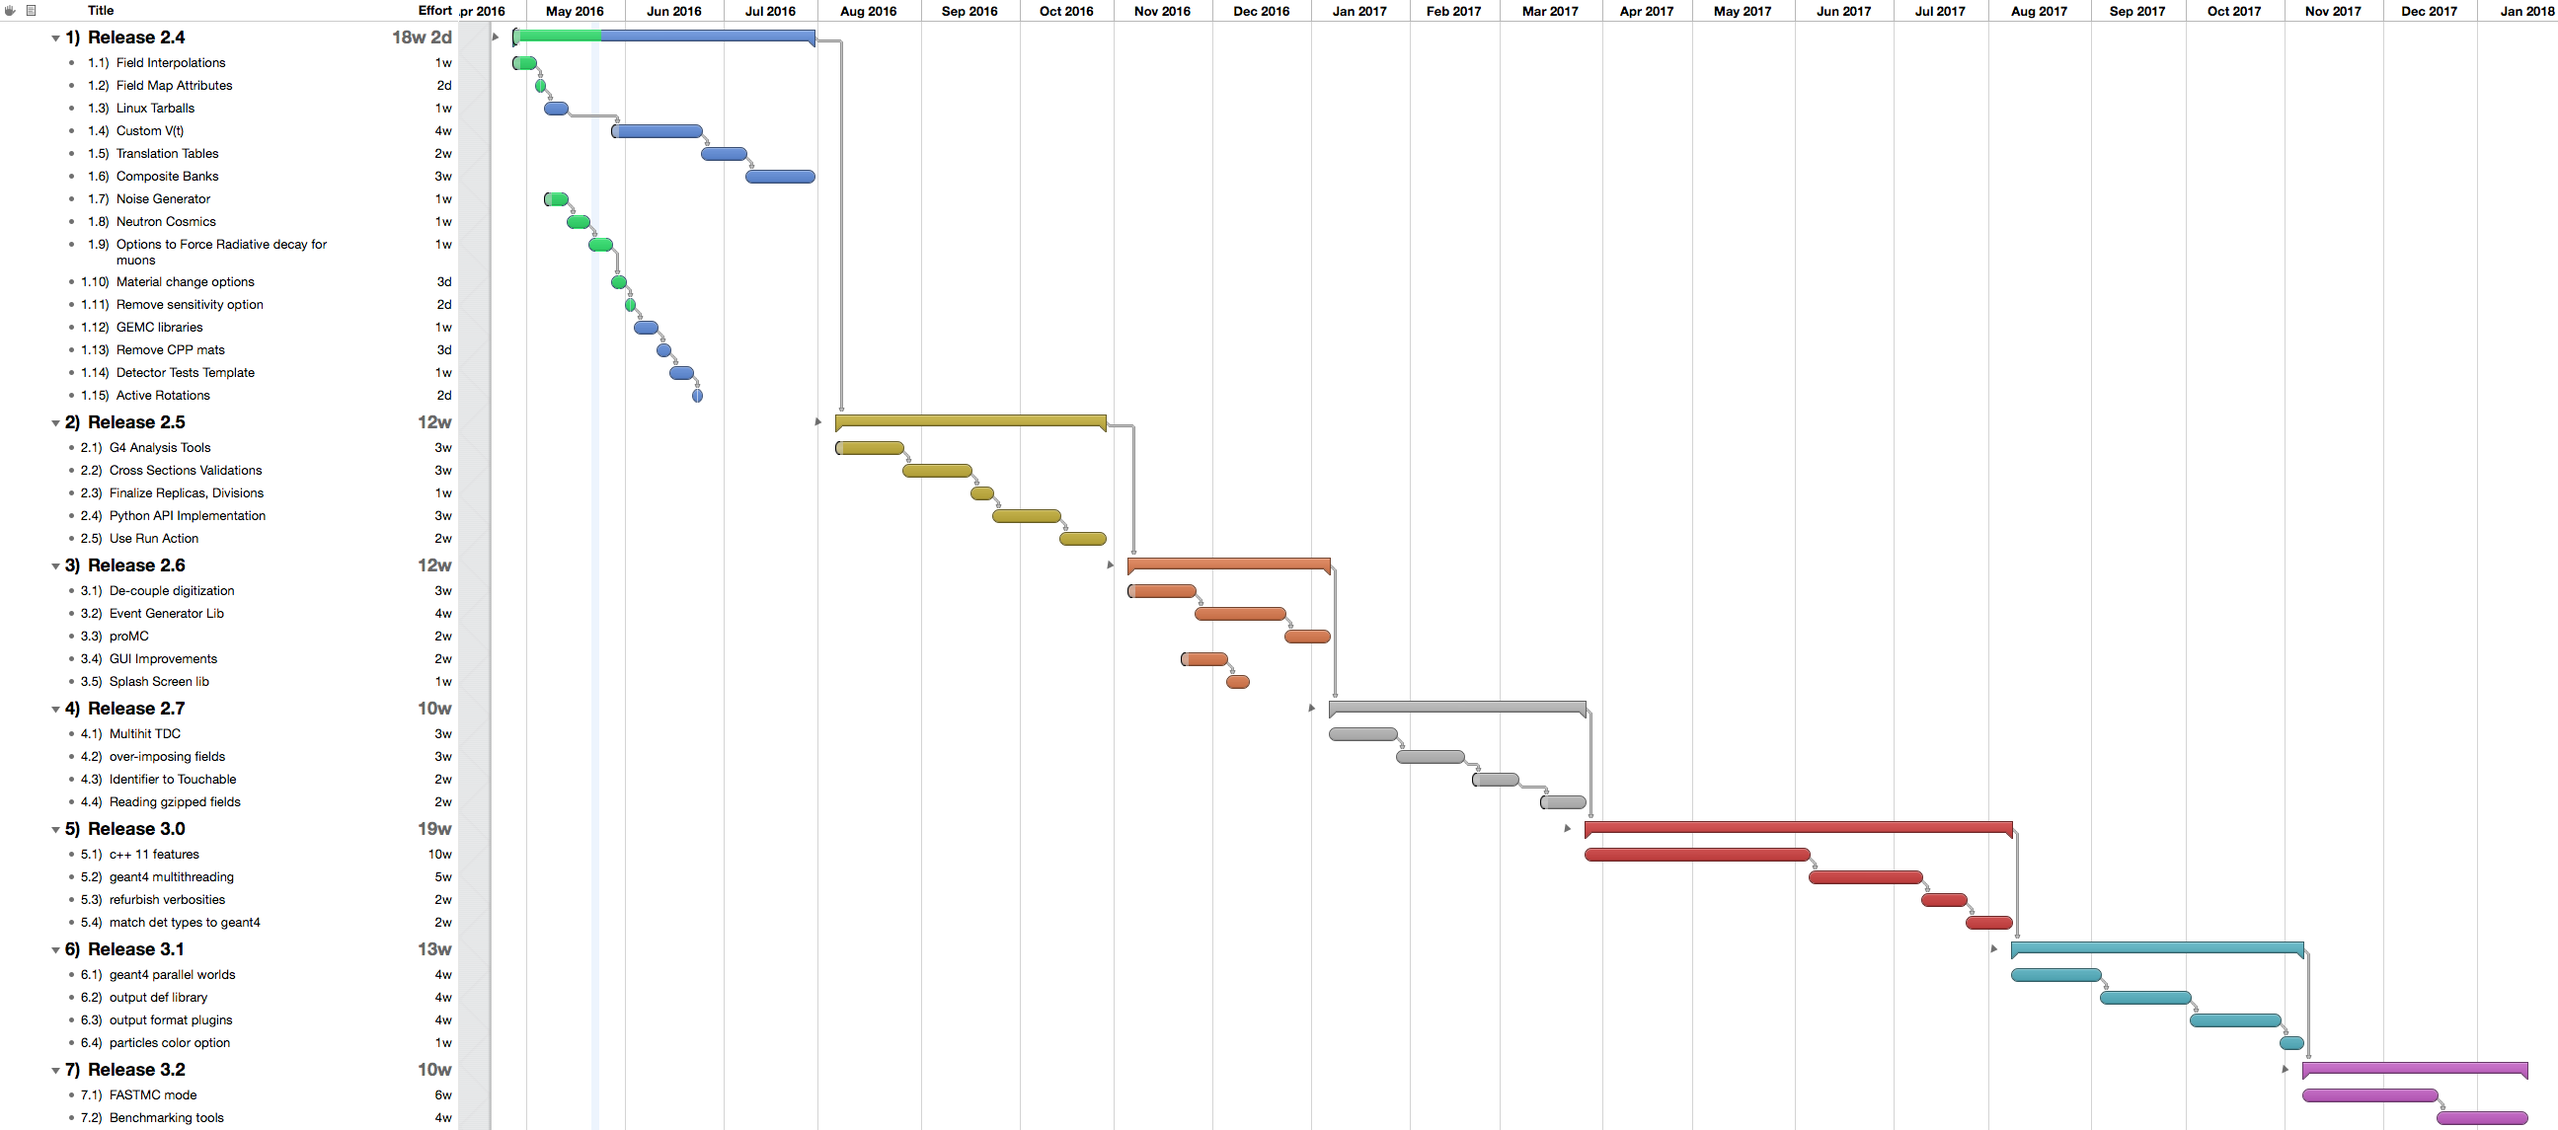
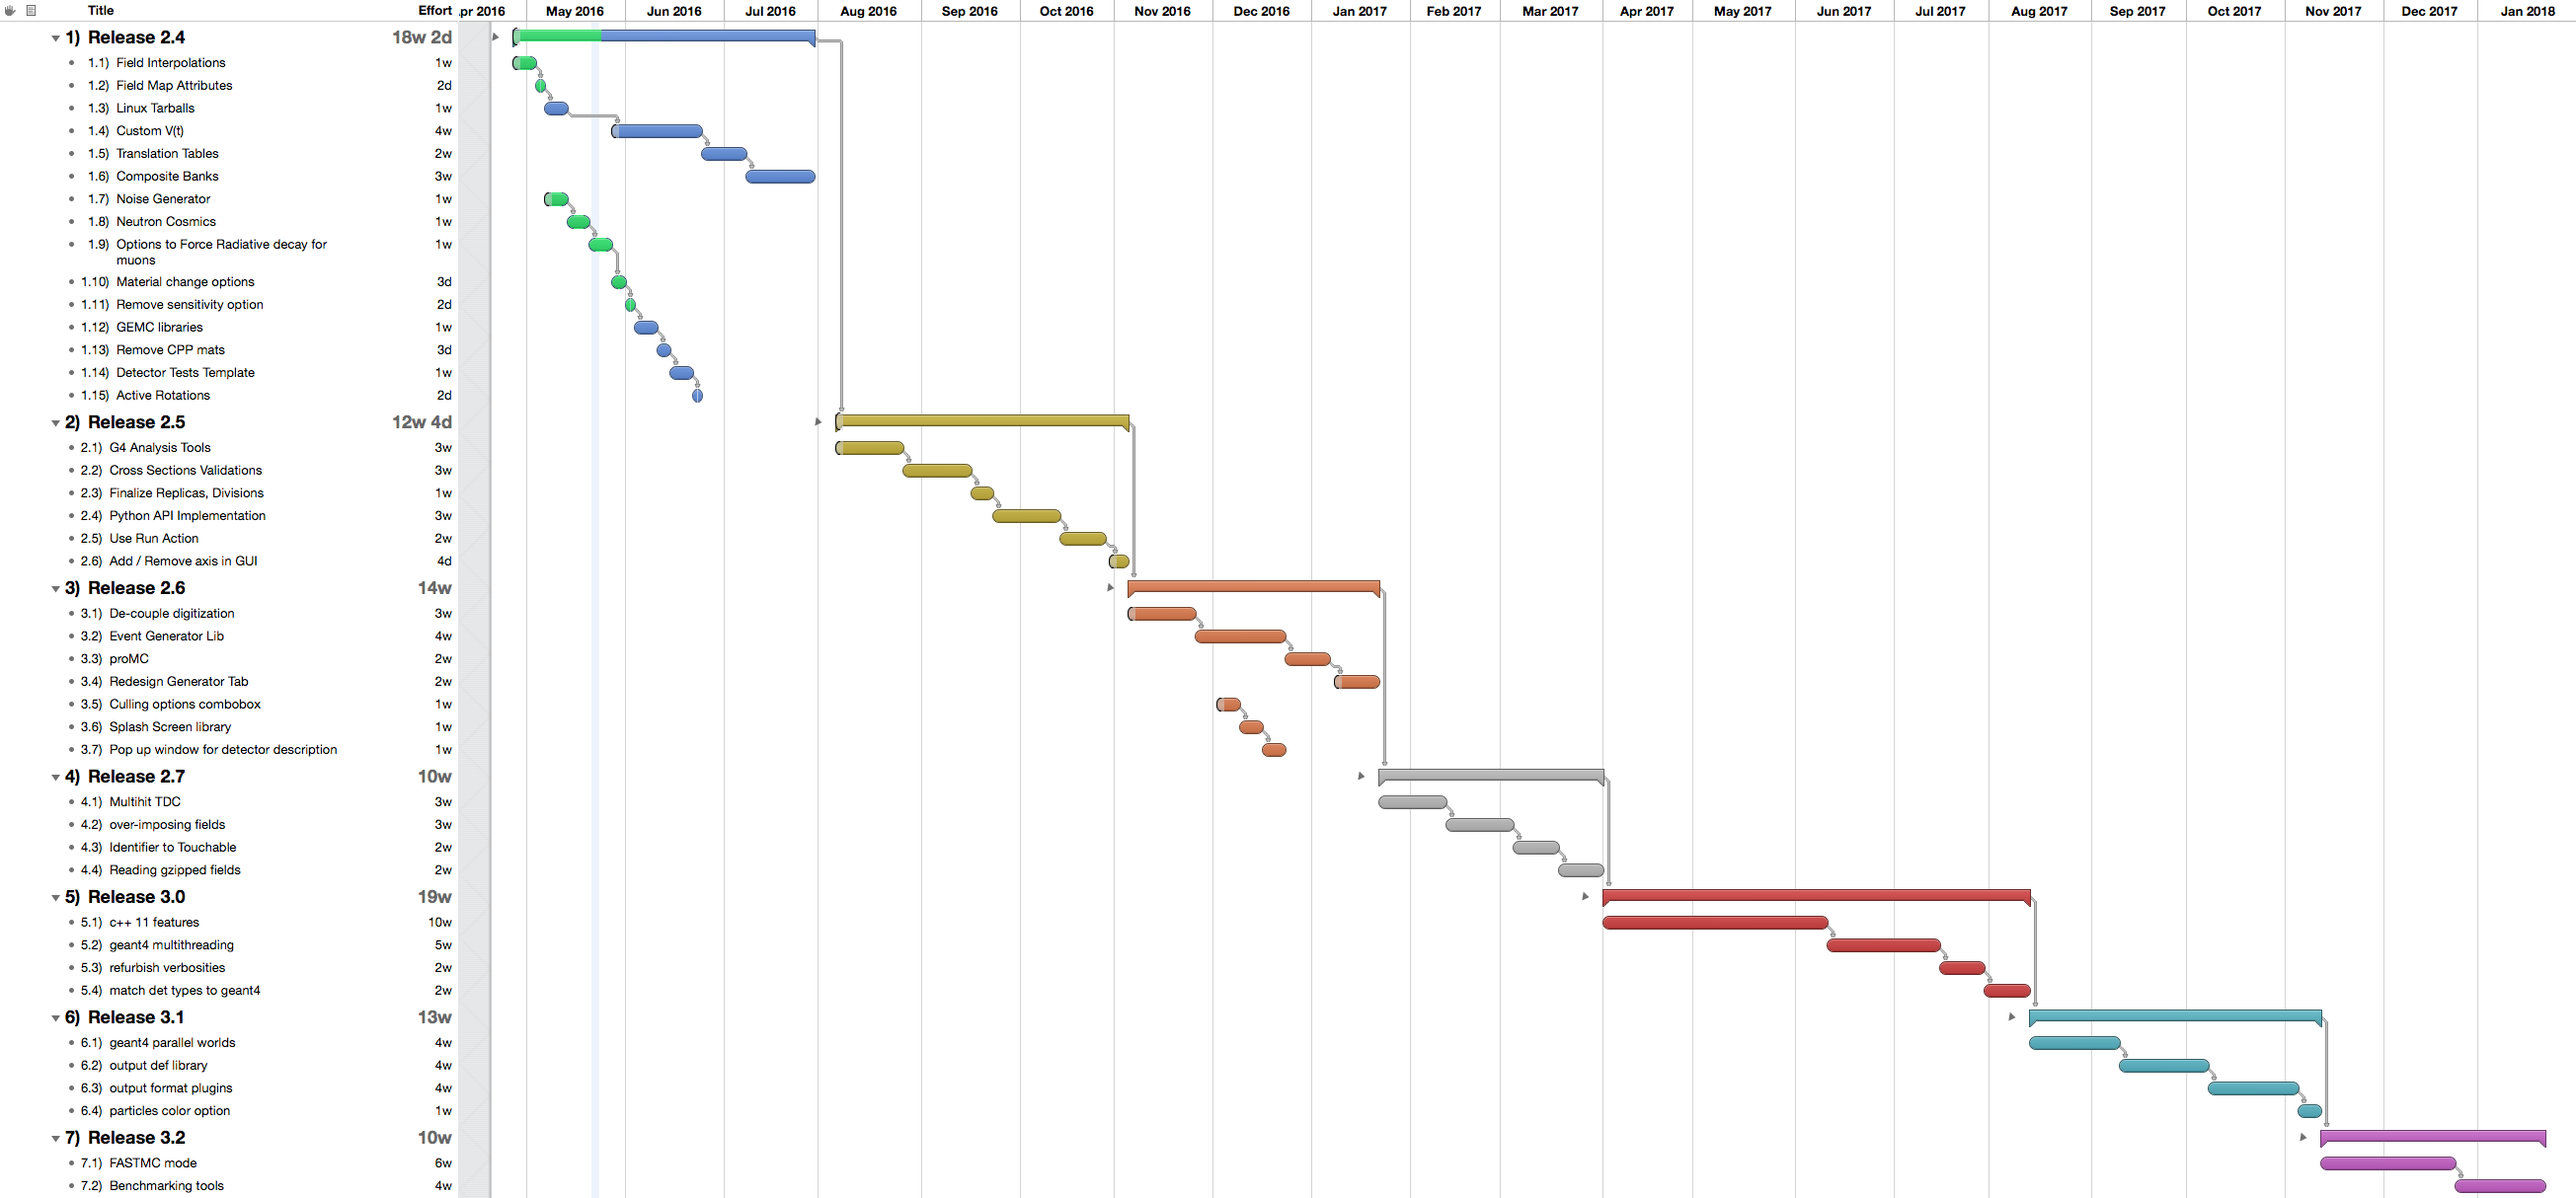
fixes on timeline items

diff --git a/webPage/source/documentation/releases/roadmap.rst b/webPage/source/documentation/releases/roadmap.rst
@@ -83,20 +83,20 @@ GEMC 2.6
 
 - Support for **proMC** format for event generation.
 
+- Redesign Generator Tab
 
-- GUI improvements:
-   - culling options combobox.
-   - move timewindow to general generator tab - make all other the same.
+- Culling options combobox.
 
-- bring splash screen out of util - general library.
+- Splash Screen library
 
+- Pop up window for detector description
 
 GEMC 2.7
 --------
 
-- overimposing magnetic fields
+- Overimposing magnetic fields
 
-- Multihit TDC.
+- Multihit TDC
 
 - Change identifier class to touchable.
   Have the vector<id> inside it, instead of passing vectors of identifier.
@@ -107,24 +107,24 @@ GEMC 3.0
 
 - 3.0 will start making use of **c++11** features.
 
-- **geant4 multithreading**.
+- **Geant4 multithreading**.
 
-- re-define and document all verbosities.
+- Re-define and document all verbosities.
 
-- match detector types to geant4.
+- Match detector types to geant4.
 
 
 
 GEMC 3.1
 --------
 
-- geant4 **parallel worlds**.
+- Geant4 **parallel worlds**.
 
-- output format plugins.
+- Output format plugins.
 
-- geant4 output definitions will be an external GEMC library.
+- Geant4 output definitions will be an external GEMC library.
 
-- particles color map option.
+- Particles color map option.
 
 GEMC 3.2
 --------
